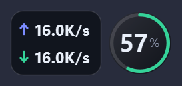
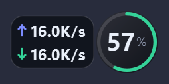
Shrink net-speed hover card and make it flush with the memory ring
Tighter row spacing and padding; the card now sits tangent to the
gauge's left edge instead of floating 6px away.

diff --git a/perf_overlay/ui/net_card.py b/perf_overlay/ui/net_card.py
@@ -26,9 +26,9 @@ BORDER_COLOR = QColor(255, 255, 255, 30)
 class NetSpeedCard(QWidget):
     """Click-through pill that shows ↑/↓ throughput beside the gauge."""
 
-    ARROW_CX = 14.0
-    TEXT_X = 25.0
-    PAD_RIGHT = 12.0
+    ARROW_CX = 12.0
+    TEXT_X = 21.0
+    PAD_RIGHT = 9.0
 
     def __init__(self) -> None:
         super().__init__(
@@ -57,9 +57,9 @@ class NetSpeedCard(QWidget):
         fm = QFontMetrics(self._font)
         text_w = max(fm.horizontalAdvance(theme.format_speed(self._up)),
                      fm.horizontalAdvance(theme.format_speed(self._down)))
-        row_h = fm.height() + 6
+        row_h = fm.height() + 2
         self.setFixedSize(int(self.TEXT_X + text_w + self.PAD_RIGHT),
-                          int(row_h * 2 + 12))
+                          int(row_h * 2 + 8))
 
     # -- painting ------------------------------------------------------
     def paintEvent(self, _event) -> None:  # noqa: N802
@@ -71,7 +71,7 @@ class NetSpeedCard(QWidget):
         p.drawRoundedRect(self.rect().adjusted(1, 1, -1, -1), 12, 12)
 
         fm = QFontMetrics(self._font)
-        row_h = fm.height() + 6
+        row_h = fm.height() + 2
         top = (self.height() - row_h * 2) / 2.0
         for i, (value, color) in enumerate(((self._up, UP_COLOR),
                                             (self._down, DOWN_COLOR))):

diff --git a/perf_overlay/ui/overlay.py b/perf_overlay/ui/overlay.py
@@ -195,10 +195,10 @@ class OverlayWidget(QWidget):
         card.raise_()
 
     def _position_net_card(self) -> None:
-        """Park the card just left of the gauge, vertically centred."""
+        """Park the card flush against the gauge's left edge, vertically centred."""
         card = self._net_card
         g = self.geometry()
-        gap = 6
+        gap = 0  # tangent to the ring
         x = g.left() - card.width() - gap
         y = g.top() + (g.height() - card.height()) // 2
         try:
